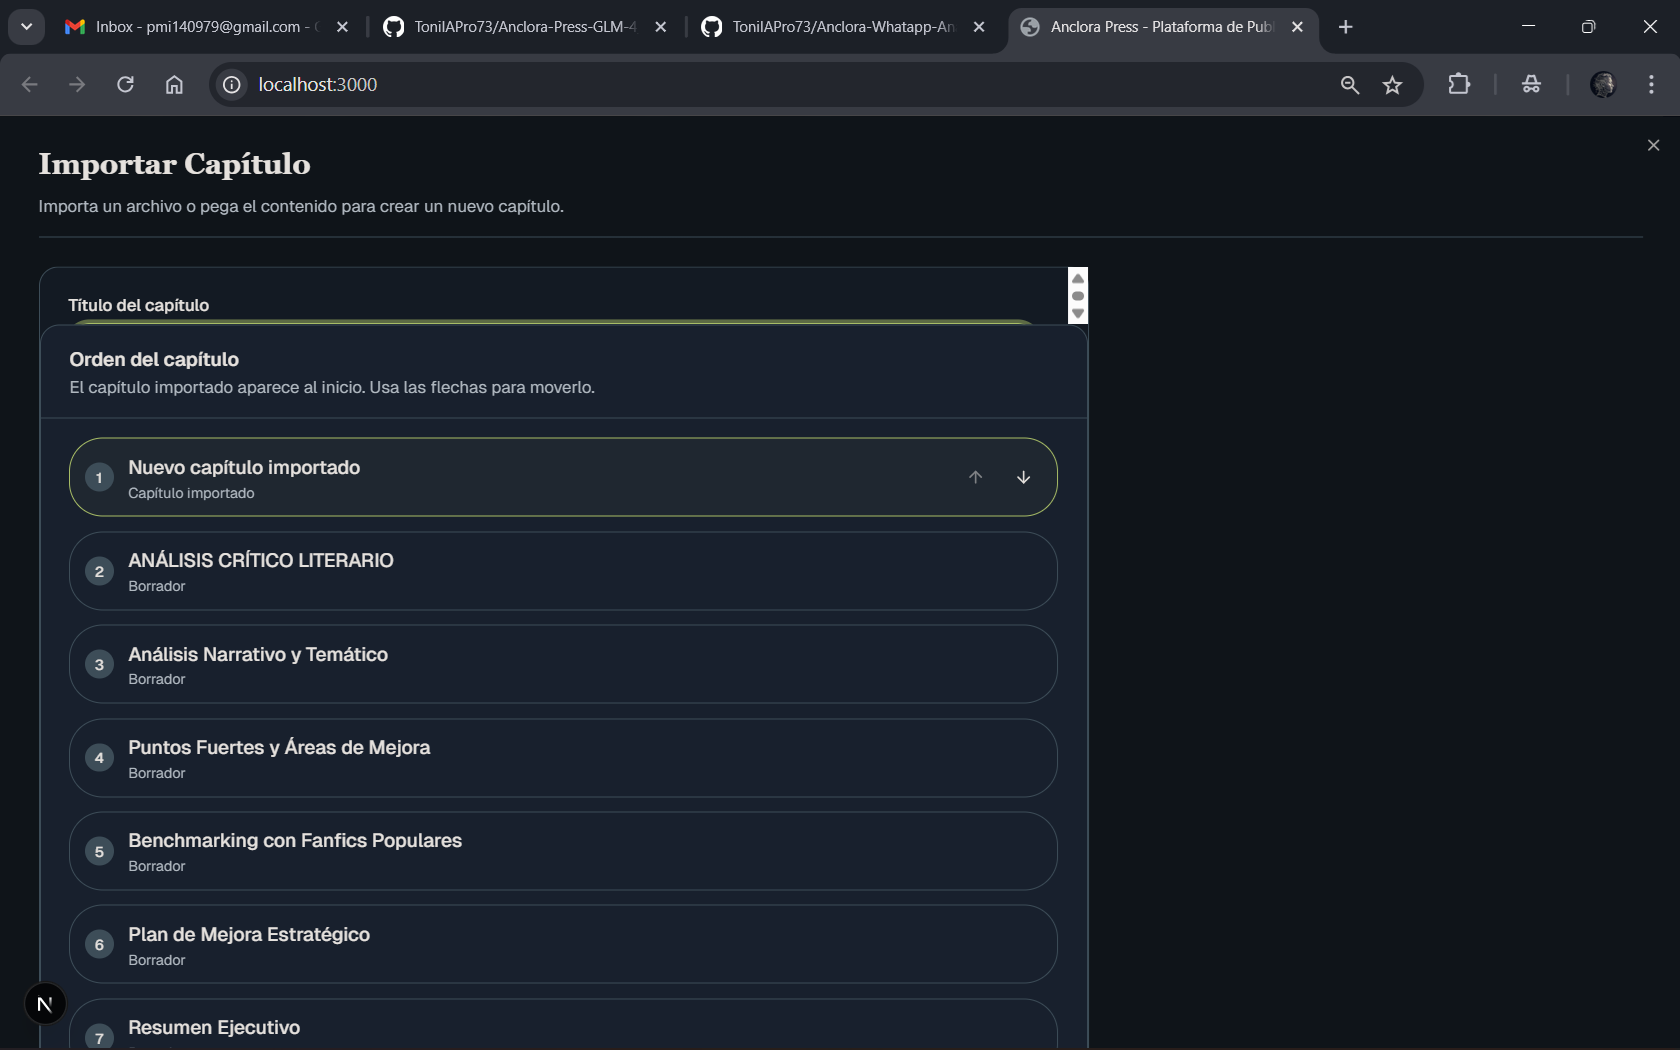
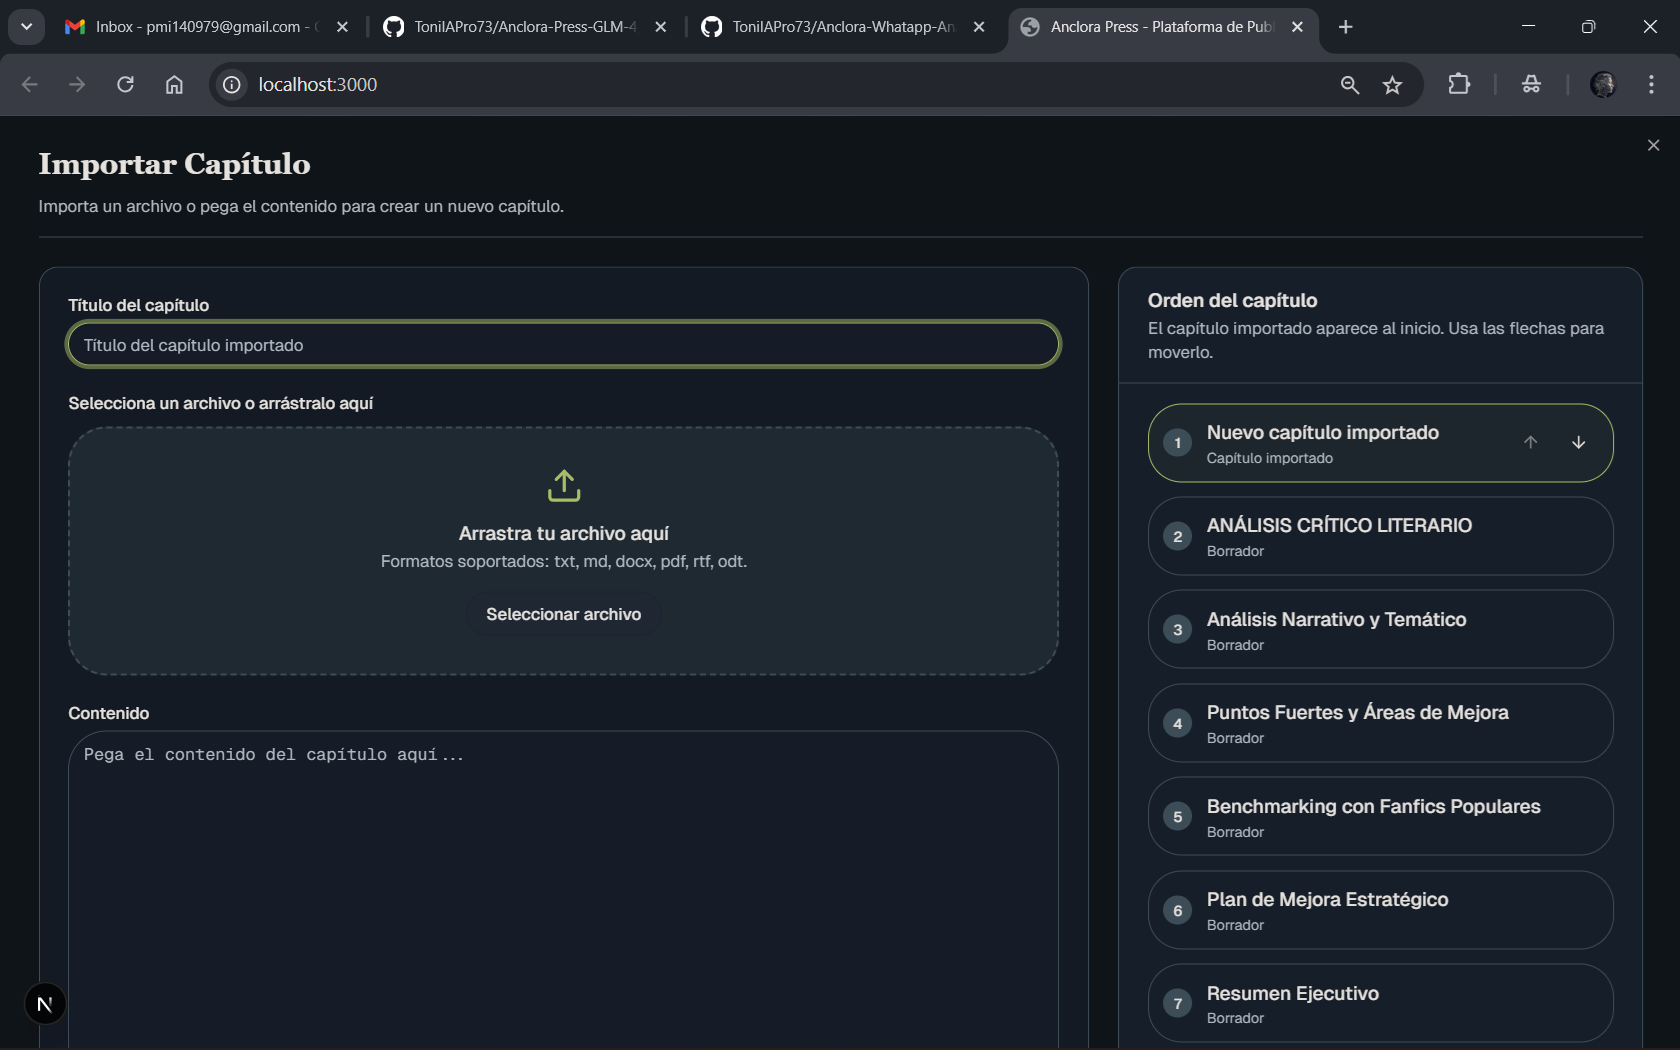
● Perfecto. He ajustado la estructura del modal de importación de capítulos para solucionar todos los problemas mencionados. Los cambios realizados son:
Cambios implementados

  1. Estructura del Grid principal (línea 385)

  - Cambié de flex-1 min-h-0 grid a h-full grid para forzar que ocupe toda la altura disponible

  2. Panel izquierdo (Contenido) (líneas 386-488)

  - Contenedor principal: h-full flex flex-col overflow-hidden (altura fija igual al viewport)
  - Contenido scrollable: flex-1 flex flex-col overflow-auto
  - Campos superiores (Título y Drag & Drop): flex-shrink-0 (no se contraen)
  - Zona de Drag & Drop: reduje padding de py-8 a py-6 y ajusté tamaños de texto para compactar
  - Campo de Contenido:
    - Contenedor: flex-1 flex flex-col min-h-0 (se expande para llenar espacio disponible)
    - Textarea: flex-1 resize-none overflow-auto (eliminé min-h-[320px] para que se ajuste dinámicamente)
    - Ahora tiene scroll interno cuando el contenido desborda

  3. Panel derecho (Orden del capítulo) (líneas 489-563)

  - Contenedor principal: h-full flex flex-col overflow-hidden (misma altura que el panel izquierdo)
  - Header: flex-shrink-0 (no se contrae)
  - Lista de capítulos: flex-1 overflow-auto min-h-0 (scroll interno cuando hay muchos capítulos)

  4. DialogHeader (línea 373)

  - Agregué flex-shrink-0 para que nunca se contraiga

  5. Footer con botones (línea 566)

  - Agregué flex-shrink-0 para garantizar que siempre sea visible

  Resultado

  Ahora el modal:
  - ✅ Ocupa todo el viewport verticalmente (h-screen)
  - ✅ Los dos frames principales tienen exactamente la misma altura (h-full)
[…]

diff --git a/src/components/chapter-editor.tsx b/src/components/chapter-editor.tsx
@@ -199,7 +199,11 @@ export default function ChapterEditor({
     }
   };
 
-  const importChapter = (content: string, title: string, position = chapters.length) => {
+  const importChapter = (
+    content: string,
+    title: string,
+    position = chapters.length
+  ) => {
     const newChapter: Chapter = {
       id: `chapter-${Date.now()}`,
       title: title || t("chapter.importDialog"),
@@ -290,7 +294,9 @@ export default function ChapterEditor({
           setImportTitle(result.metadata.title);
         }
       } else {
-        setImportError(result.error || "No se pudo procesar el archivo seleccionado.");
+        setImportError(
+          result.error || "No se pudo procesar el archivo seleccionado."
+        );
       }
     } catch (error) {
       console.error("Import file error:", error);
@@ -307,7 +313,9 @@ export default function ChapterEditor({
     }
   };
 
-  const handleFileInputChange = (event: React.ChangeEvent<HTMLInputElement>) => {
+  const handleFileInputChange = (
+    event: React.ChangeEvent<HTMLInputElement>
+  ) => {
     const file = event.target.files?.[0];
     if (file) {
       void handleFileProcess(file);
@@ -370,7 +378,7 @@ export default function ChapterEditor({
                   </DialogTrigger>
                   <DialogContent className="w-screen h-screen max-w-none sm:max-w-none p-0 sm:rounded-none border-none bg-background overflow-hidden">
                     <div className="flex h-full flex-col w-full px-6 sm:px-8 py-6">
-                      <DialogHeader className="pb-4 border-b border-border">
+                      <DialogHeader className="pb-4 border-b border-border shrink-0">
                         <DialogTitle className="text-2xl font-semibold font-serif">
                           {mounted && t("chapter.importDialog")}
                         </DialogTitle>
@@ -382,17 +390,19 @@ export default function ChapterEditor({
                         </DialogDescription>
                       </DialogHeader>
                       <div className="flex-1 flex flex-col min-h-0 py-6">
-                        <div className="flex-1 min-h-0 grid grid-cols-1 xl:grid-cols-[2fr_1fr] gap-6 overflow-hidden">
-                          <div className="flex flex-col min-h-0 rounded-2xl border border-border bg-card/40">
-                            <div className="flex-1 overflow-auto p-6 space-y-6">
-                              <div className="space-y-2">
+                        <div className="h-full grid grid-cols-1 xl:grid-cols-[2fr_1fr] gap-6">
+                          <div className="h-full flex flex-col rounded-2xl border border-border bg-card/40 overflow-hidden">
+                            <div className="flex-1 flex flex-col overflow-auto p-6 space-y-4">
+                              <div className="space-y-2 shrink-0">
                                 <Label htmlFor="import-title">
                                   {mounted && t("chapter.chapterTitle")}
                                 </Label>
                                 <Input
                                   id="import-title"
                                   value={importTitle}
-                                  onChange={(e) => setImportTitle(e.target.value)}
+                                  onChange={(e) =>
+                                    setImportTitle(e.target.value)
+                                  }
                                   placeholder={
                                     mounted
                                       ? t("chapter.chapterTitlePlaceholder")
@@ -400,7 +410,7 @@ export default function ChapterEditor({
                                   }
                                 />
                               </div>
-                              <div className="space-y-3">
+                              <div className="space-y-3 shrink-0">
                                 <Label>
                                   {mounted
                                     ? language === "es"
@@ -419,21 +429,21 @@ export default function ChapterEditor({
                                   }}
                                   onDrop={handleDrop}
                                   className={cn(
-                                    "border-2 border-dashed rounded-xl px-6 py-8 text-center transition-colors",
+                                    "border-2 border-dashed rounded-xl px-6 py-6 text-center transition-colors",
                                     isDraggingFile
                                       ? "border-primary bg-primary/5"
                                       : "border-border bg-muted/30"
                                   )}
                                 >
-                                  <Upload className="w-8 h-8 mx-auto mb-3 text-primary" />
-                                  <p className="font-medium">
+                                  <Upload className="w-8 h-8 mx-auto mb-2 text-primary" />
+                                  <p className="font-medium text-sm">
                                     {mounted
                                       ? language === "es"
                                         ? "Arrastra tu archivo aquí"
                                         : "Drag your file here"
                                       : "Drag your file here"}
                                   </p>
-                                  <p className="text-sm text-muted-foreground mb-4">
+                                  <p className="text-xs text-muted-foreground mb-3">
                                     {mounted
                                       ? language === "es"
                                         ? "Formatos soportados: txt, md, docx, pdf, rtf, odt."
@@ -443,8 +453,11 @@ export default function ChapterEditor({
                                   <Button
                                     type="button"
                                     variant="outline"
+                                    size="sm"
                                     disabled={isUploadingFile}
-                                    onClick={() => fileInputRef.current?.click()}
+                                    onClick={() =>
+                                      fileInputRef.current?.click()
+                                    }
                                   >
                                     {isUploadingFile
                                       ? mounted && language === "es"
@@ -463,30 +476,39 @@ export default function ChapterEditor({
                                   />
                                 </div>
                               </div>
-                              <div className="space-y-2 flex flex-col min-h-[360px]">
+                              <div className="space-y-2 flex-1 flex flex-col min-h-0">
                                 <Label htmlFor="import-content">
                                   {mounted && t("chapter.content")}
                                 </Label>
                                 <Textarea
                                   id="import-content"
                                   value={importContent}
-                                  onChange={(e) => setImportContent(e.target.value)}
+                                  onChange={(e) =>
+                                    setImportContent(e.target.value)
+                                  }
                                   placeholder={
-                                    mounted ? t("chapter.contentPlaceholder") : ""
+                                    mounted
+                                      ? t("chapter.contentPlaceholder")
+                                      : ""
                                   }
                                   wrap="off"
                                   spellCheck={false}
-                                  className="flex-1 min-h-[320px] resize-none overflow-auto font-mono text-sm rounded-xl border border-border bg-background/90"
-                                  style={{ whiteSpace: "pre", wordBreak: "normal" }}
+                                  className="flex-1 resize-none overflow-auto font-mono text-sm rounded-xl border border-border bg-background/90"
+                                  style={{
+                                    whiteSpace: "pre",
+                                    wordBreak: "normal",
+                                  }}
                                 />
                                 {importError && (
-                                  <p className="text-sm text-destructive">{importError}</p>
+                                  <p className="text-sm text-destructive">
+                                    {importError}
+                                  </p>
                                 )}
                               </div>
                             </div>
                           </div>
-                          <div className="flex flex-col min-h-0 rounded-2xl border border-border bg-card/70">
-                            <div className="border-b border-border px-6 py-4">
+                          <div className="h-full flex flex-col rounded-2xl border border-border bg-card/70 overflow-hidden">
+                            <div className="border-b border-border px-6 py-4 shrink-0">
                               <h4 className="font-semibold">
                                 {mounted
                                   ? language === "es"
@@ -502,7 +524,7 @@ export default function ChapterEditor({
                                   : "Use the arrows to reposition the imported chapter."}
                               </p>
                             </div>
-                            <div className="flex-1 overflow-auto px-6 py-4 space-y-3">
+                            <div className="flex-1 overflow-auto px-6 py-4 space-y-3 min-h-0">
                               {previewChapters.map((item, index) => (
                                 <div
                                   key={`${item.id}-${index}`}
@@ -518,7 +540,9 @@ export default function ChapterEditor({
                                       {index + 1}
                                     </span>
                                     <div>
-                                      <p className="font-medium">{item.title}</p>
+                                      <p className="font-medium">
+                                        {item.title}
+                                      </p>
                                       <p className="text-xs text-muted-foreground">
                                         {item.isNew
                                           ? mounted
@@ -527,7 +551,8 @@ export default function ChapterEditor({
                                               : "Imported chapter"
                                             : "Imported chapter"
                                           : chapterStatuses.find(
-                                              (status) => status.value === item.status
+                                              (status) =>
+                                                status.value === item.status
                                             )?.label || item.status}
                                       </p>
                                     </div>
@@ -539,7 +564,9 @@ export default function ChapterEditor({
                                         variant="ghost"
                                         size="icon"
                                         className="h-8 w-8"
-                                        onClick={() => movePreviewPosition("up")}
+                                        onClick={() =>
+                                          movePreviewPosition("up")
+                                        }
                                         disabled={importPosition === 0}
                                       >
                                         <ArrowUp className="w-4 h-4" />
@@ -549,8 +576,12 @@ export default function ChapterEditor({
                                         variant="ghost"
                                         size="icon"
                                         className="h-8 w-8"
-                                        onClick={() => movePreviewPosition("down")}
-                                        disabled={importPosition >= chapters.length}
+                                        onClick={() =>
+                                          movePreviewPosition("down")
+                                        }
+                                        disabled={
+                                          importPosition >= chapters.length
+                                        }
                                       >
                                         <ArrowDown className="w-4 h-4" />
                                       </Button>
@@ -562,7 +593,7 @@ export default function ChapterEditor({
                           </div>
                         </div>
                       </div>
-                      <div className="flex items-center justify-between pt-4 border-t border-border">
+                      <div className="flex items-center justify-between pt-4 border-t border-border shrink-0">
                         <Button
                           variant="outline"
                           onClick={() => setShowImportDialog(false)}
